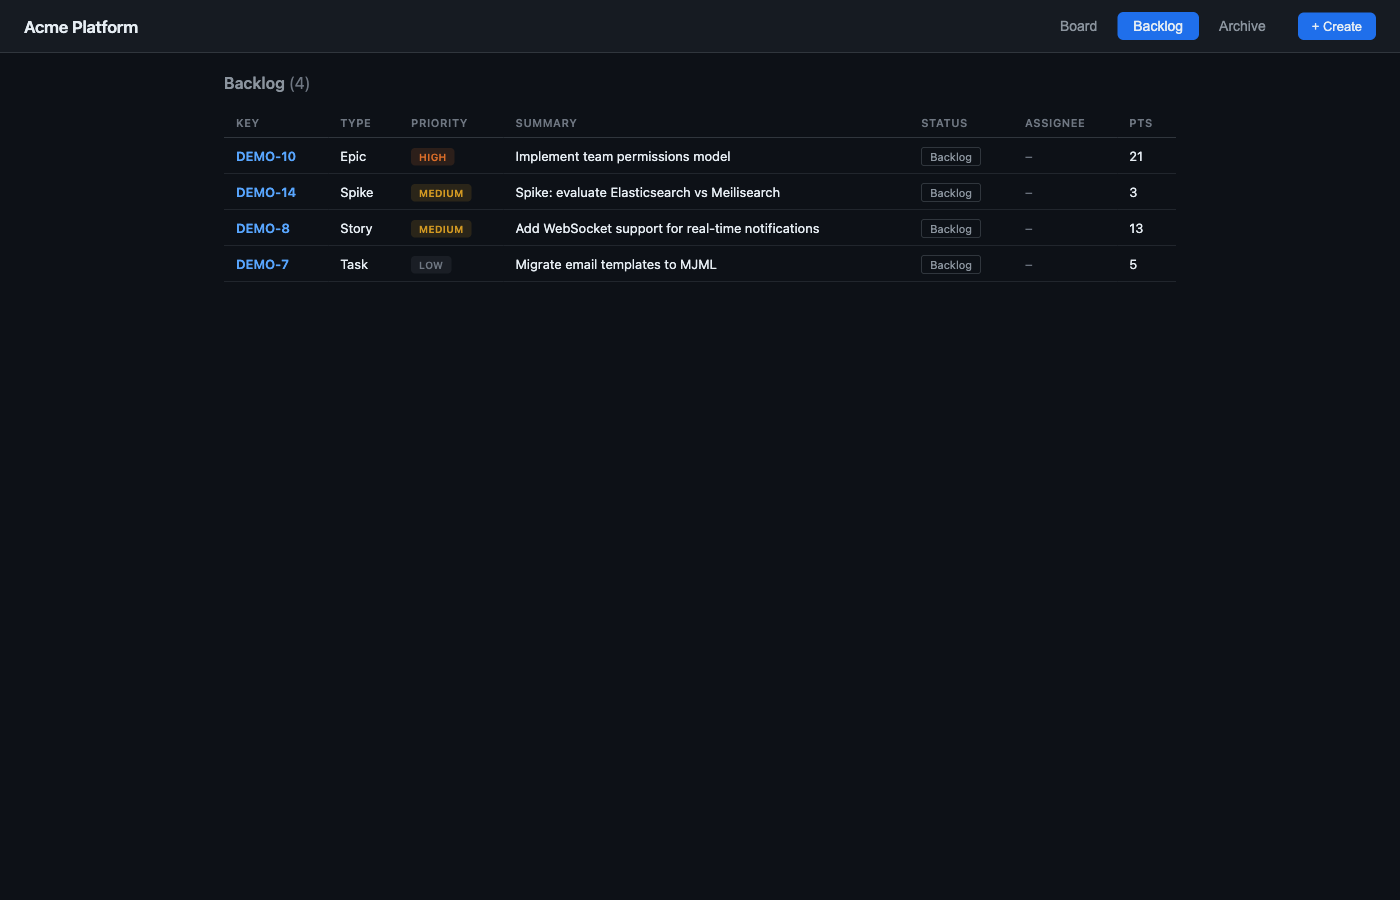
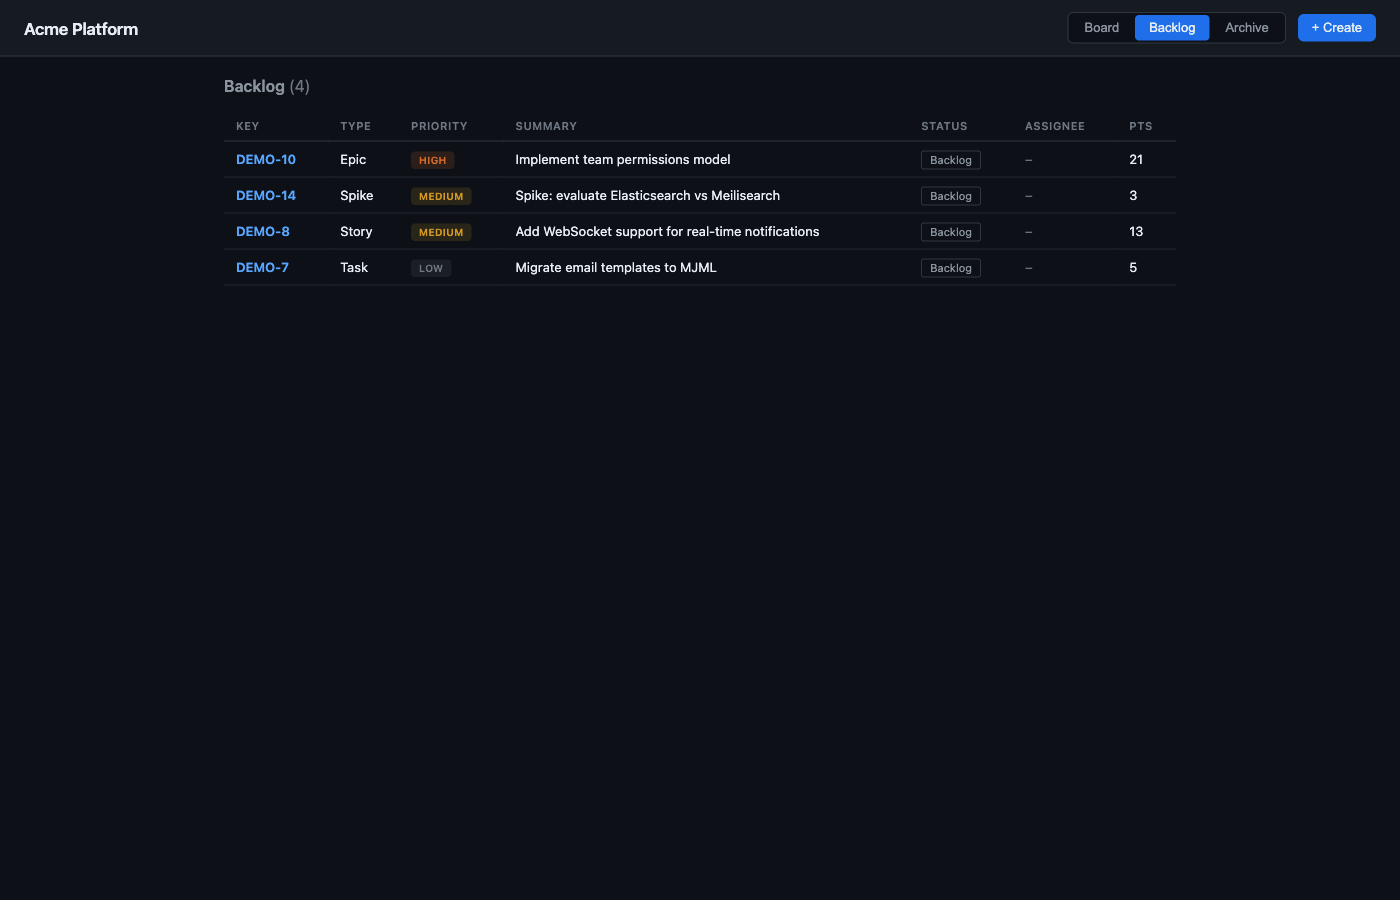
Use segmented control for Board/Backlog/Archive tabs
Matches the project switcher style. Updated screenshots.

diff --git a/src/web-multi/styles.css b/src/web-multi/styles.css
@@ -101,28 +101,34 @@ header {
 .tabs {
   display: flex;
   align-items: center;
-  gap: 4px;
+  gap: 12px;
 }
 
-.tabs .btn-create {
-  margin-left: 12px;
+.tab-group {
+  display: flex;
+  gap: 2px;
+  background: var(--bg);
+  border: 1px solid var(--border);
+  border-radius: var(--radius);
+  padding: 2px;
 }
 
 .tab {
-  padding: 6px 16px;
+  padding: 5px 14px;
   border: none;
   background: transparent;
   color: var(--text-dim);
   cursor: pointer;
-  font-size: 14px;
+  font-size: 13px;
   font-weight: 500;
-  border-radius: var(--radius);
+  border-radius: 4px;
   transition: all 0.15s;
+  white-space: nowrap;
 }
 
 .tab:hover {
   color: var(--text);
-  background: var(--bg);
+  background: var(--bg-surface);
 }
 
 .tab.active {

diff --git a/src/web/styles.css b/src/web/styles.css
@@ -62,28 +62,34 @@ header {
 .tabs {
   display: flex;
   align-items: center;
-  gap: 4px;
+  gap: 12px;
 }
 
-.tabs .btn-create {
-  margin-left: 12px;
+.tab-group {
+  display: flex;
+  gap: 2px;
+  background: var(--bg);
+  border: 1px solid var(--border);
+  border-radius: var(--radius);
+  padding: 2px;
 }
 
 .tab {
-  padding: 6px 16px;
+  padding: 5px 14px;
   border: none;
   background: transparent;
   color: var(--text-dim);
   cursor: pointer;
-  font-size: 14px;
+  font-size: 13px;
   font-weight: 500;
-  border-radius: var(--radius);
+  border-radius: 4px;
   transition: all 0.15s;
+  white-space: nowrap;
 }
 
 .tab:hover {
   color: var(--text);
-  background: var(--bg);
+  background: var(--bg-surface);
 }
 
 .tab.active {

diff --git a/src/web-multi/index.html b/src/web-multi/index.html
@@ -14,9 +14,11 @@
     <nav class="header-right">
       <div class="project-switcher" id="projectSwitcher"></div>
       <div class="tabs">
-        <button class="tab active" data-tab="board">Board</button>
-        <button class="tab" data-tab="backlog">Backlog</button>
-        <button class="tab" data-tab="archive">Archive</button>
+        <div class="tab-group">
+          <button class="tab active" data-tab="board">Board</button>
+          <button class="tab" data-tab="backlog">Backlog</button>
+          <button class="tab" data-tab="archive">Archive</button>
+        </div>
         <button class="btn-create" id="headerCreateBtn">+ Create</button>
       </div>
     </nav>

diff --git a/src/web/index.html b/src/web/index.html
@@ -12,9 +12,11 @@
       <h1 class="logo" id="projectName"></h1>
     </div>
     <nav class="tabs">
-      <button class="tab active" data-tab="board">Board</button>
-      <button class="tab" data-tab="backlog">Backlog</button>
-      <button class="tab" data-tab="archive">Archive</button>
+      <div class="tab-group">
+        <button class="tab active" data-tab="board">Board</button>
+        <button class="tab" data-tab="backlog">Backlog</button>
+        <button class="tab" data-tab="archive">Archive</button>
+      </div>
       <button class="btn-create" id="headerCreateBtn">+ Create</button>
     </nav>
   </header>
